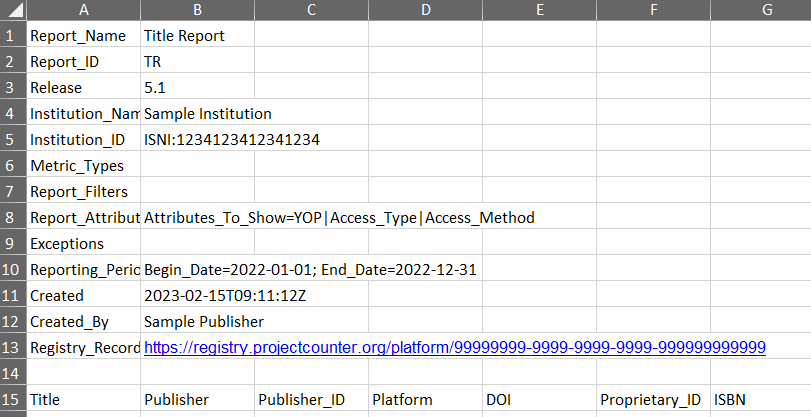
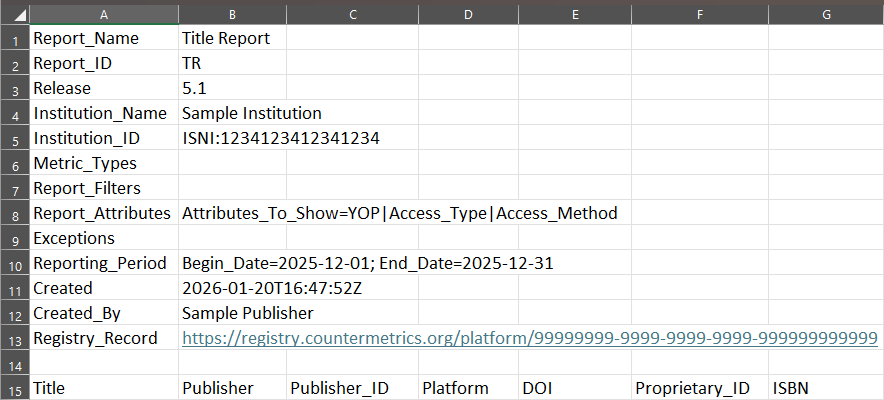
Update COUNTER URL domain (#321)

diff --git a/source/appendices/g-sample-counter-reports-and-standard-views.rst b/source/appendices/g-sample-counter-reports-and-standard-views.rst
@@ -136,96 +136,96 @@ Table G.1: Sample COUNTER Reports and Standard Views of the COUNTER Reports
 
       * - PR
         - Platform Report
-        - `JSON <https://cop5.projectcounter.org/en/5.1.0.1/_static/report/PR_sample_r51.json>`_
-          `TSV <https://cop5.projectcounter.org/en/5.1.0.1/_static/report/PR_sample_r51.tsv>`_
-          `Excel <https://cop5.projectcounter.org/en/5.1.0.1/_static/report/PR_sample_r51.xlsx>`_
+        - `JSON <https://cop5.countermetrics.org/en/5.1.0.1/_static/report/PR_sample_r51.json>`_
+          `TSV <https://cop5.countermetrics.org/en/5.1.0.1/_static/report/PR_sample_r51.tsv>`_
+          `Excel <https://cop5.countermetrics.org/en/5.1.0.1/_static/report/PR_sample_r51.xlsx>`_
 
       * - PR_P1
         - Platform Usage
-        - `JSON <https://cop5.projectcounter.org/en/5.1.0.1/_static/report/PRP1_sample_r51.json>`_
-          `TSV <https://cop5.projectcounter.org/en/5.1.0.1/_static/report/PRP1_sample_r51.tsv>`_
-          `Excel <https://cop5.projectcounter.org/en/5.1.0.1/_static/report/PRP1_sample_r51.xlsx>`_
+        - `JSON <https://cop5.countermetrics.org/en/5.1.0.1/_static/report/PRP1_sample_r51.json>`_
+          `TSV <https://cop5.countermetrics.org/en/5.1.0.1/_static/report/PRP1_sample_r51.tsv>`_
+          `Excel <https://cop5.countermetrics.org/en/5.1.0.1/_static/report/PRP1_sample_r51.xlsx>`_
 
       * - DR
         - Database Report
-        - `JSON <https://cop5.projectcounter.org/en/5.1.0.1/_static/report/DR_sample_r51.json>`_
-          `TSV <https://cop5.projectcounter.org/en/5.1.0.1/_static/report/DR_sample_r51.tsv>`_
-          `Excel <https://cop5.projectcounter.org/en/5.1.0.1/_static/report/DR_sample_r51.xlsx>`_
+        - `JSON <https://cop5.countermetrics.org/en/5.1.0.1/_static/report/DR_sample_r51.json>`_
+          `TSV <https://cop5.countermetrics.org/en/5.1.0.1/_static/report/DR_sample_r51.tsv>`_
+          `Excel <https://cop5.countermetrics.org/en/5.1.0.1/_static/report/DR_sample_r51.xlsx>`_
 
       * - DR_D1
         - Database Search and Item Usage
-        - `JSON <https://cop5.projectcounter.org/en/5.1.0.1/_static/report/DRD1_sample_r51.json>`_
-          `TSV <https://cop5.projectcounter.org/en/5.1.0.1/_static/report/DRD1_sample_r51.tsv>`_
-          `Excel <https://cop5.projectcounter.org/en/5.1.0.1/_static/report/DRD1_sample_r51.xlsx>`_
+        - `JSON <https://cop5.countermetrics.org/en/5.1.0.1/_static/report/DRD1_sample_r51.json>`_
+          `TSV <https://cop5.countermetrics.org/en/5.1.0.1/_static/report/DRD1_sample_r51.tsv>`_
+          `Excel <https://cop5.countermetrics.org/en/5.1.0.1/_static/report/DRD1_sample_r51.xlsx>`_
 
       * - DR_D2
         - Database Access Denied
-        - `JSON <https://cop5.projectcounter.org/en/5.1.0.1/_static/report/DRD2_sample_r51.json>`_
-          `TSV <https://cop5.projectcounter.org/en/5.1.0.1/_static/report/DRD2_sample_r51.tsv>`_
-          `Excel <https://cop5.projectcounter.org/en/5.1.0.1/_static/report/DRD2_sample_r51.xlsx>`_
+        - `JSON <https://cop5.countermetrics.org/en/5.1.0.1/_static/report/DRD2_sample_r51.json>`_
+          `TSV <https://cop5.countermetrics.org/en/5.1.0.1/_static/report/DRD2_sample_r51.tsv>`_
+          `Excel <https://cop5.countermetrics.org/en/5.1.0.1/_static/report/DRD2_sample_r51.xlsx>`_
 
       * - TR
         - Title Report
-        - `JSON <https://cop5.projectcounter.org/en/5.1.0.1/_static/report/TR_sample_r51.json>`_
-          `TSV <https://cop5.projectcounter.org/en/5.1.0.1/_static/report/TR_sample_r51.tsv>`_
-          `Excel <https://cop5.projectcounter.org/en/5.1.0.1/_static/report/TR_sample_r51.xlsx>`_
+        - `JSON <https://cop5.countermetrics.org/en/5.1.0.1/_static/report/TR_sample_r51.json>`_
+          `TSV <https://cop5.countermetrics.org/en/5.1.0.1/_static/report/TR_sample_r51.tsv>`_
+          `Excel <https://cop5.countermetrics.org/en/5.1.0.1/_static/report/TR_sample_r51.xlsx>`_
 
       * - TR_B1
         - Book Requests (Controlled)
-        - `JSON <https://cop5.projectcounter.org/en/5.1.0.1/_static/report/TRB1_sample_r51.json>`_
-          `TSV <https://cop5.projectcounter.org/en/5.1.0.1/_static/report/TRB1_sample_r51.tsv>`_
-          `Excel <https://cop5.projectcounter.org/en/5.1.0.1/_static/report/TRB1_sample_r51.xlsx>`_
+        - `JSON <https://cop5.countermetrics.org/en/5.1.0.1/_static/report/TRB1_sample_r51.json>`_
+          `TSV <https://cop5.countermetrics.org/en/5.1.0.1/_static/report/TRB1_sample_r51.tsv>`_
+          `Excel <https://cop5.countermetrics.org/en/5.1.0.1/_static/report/TRB1_sample_r51.xlsx>`_
 
       * - TR_B2
         - Book Access Denied
-        - `JSON <https://cop5.projectcounter.org/en/5.1.0.1/_static/report/TRB2_sample_r51.json>`_
-          `TSV <https://cop5.projectcounter.org/en/5.1.0.1/_static/report/TRB2_sample_r51.tsv>`_
-          `Excel <https://cop5.projectcounter.org/en/5.1.0.1/_static/report/TRB2_sample_r51.xlsx>`_
+        - `JSON <https://cop5.countermetrics.org/en/5.1.0.1/_static/report/TRB2_sample_r51.json>`_
+          `TSV <https://cop5.countermetrics.org/en/5.1.0.1/_static/report/TRB2_sample_r51.tsv>`_
+          `Excel <https://cop5.countermetrics.org/en/5.1.0.1/_static/report/TRB2_sample_r51.xlsx>`_
 
       * - TR_B3
         - Book Usage by Access Type
-        - `JSON <https://cop5.projectcounter.org/en/5.1.0.1/_static/report/TRB3_sample_r51.json>`_
-          `TSV <https://cop5.projectcounter.org/en/5.1.0.1/_static/report/TRB3_sample_r51.tsv>`_
-          `Excel <https://cop5.projectcounter.org/en/5.1.0.1/_static/report/TRB3_sample_r51.xlsx>`_
+        - `JSON <https://cop5.countermetrics.org/en/5.1.0.1/_static/report/TRB3_sample_r51.json>`_
+          `TSV <https://cop5.countermetrics.org/en/5.1.0.1/_static/report/TRB3_sample_r51.tsv>`_
+          `Excel <https://cop5.countermetrics.org/en/5.1.0.1/_static/report/TRB3_sample_r51.xlsx>`_
 
       * - TR_J1
         - Journal Requests (Controlled)
-        - `JSON <https://cop5.projectcounter.org/en/5.1.0.1/_static/report/TRJ1_sample_r51.json>`_
-          `TSV <https://cop5.projectcounter.org/en/5.1.0.1/_static/report/TRJ1_sample_r51.tsv>`_
-          `Excel <https://cop5.projectcounter.org/en/5.1.0.1/_static/report/TRJ1_sample_r51.xlsx>`_
+        - `JSON <https://cop5.countermetrics.org/en/5.1.0.1/_static/report/TRJ1_sample_r51.json>`_
+          `TSV <https://cop5.countermetrics.org/en/5.1.0.1/_static/report/TRJ1_sample_r51.tsv>`_
+          `Excel <https://cop5.countermetrics.org/en/5.1.0.1/_static/report/TRJ1_sample_r51.xlsx>`_
 
       * - TR_J2
         - Journal Access Denied
-        - `JSON <https://cop5.projectcounter.org/en/5.1.0.1/_static/report/TRJ2_sample_r51.json>`_
-          `TSV <https://cop5.projectcounter.org/en/5.1.0.1/_static/report/TRJ2_sample_r51.tsv>`_
-          `Excel <https://cop5.projectcounter.org/en/5.1.0.1/_static/report/TRJ2_sample_r51.xlsx>`_
+        - `JSON <https://cop5.countermetrics.org/en/5.1.0.1/_static/report/TRJ2_sample_r51.json>`_
+          `TSV <https://cop5.countermetrics.org/en/5.1.0.1/_static/report/TRJ2_sample_r51.tsv>`_
+          `Excel <https://cop5.countermetrics.org/en/5.1.0.1/_static/report/TRJ2_sample_r51.xlsx>`_
 
       * - TR_J3
         - Journal Usage by Access Type
-        - `JSON <https://cop5.projectcounter.org/en/5.1.0.1/_static/report/TRJ3_sample_r51.json>`_
-          `TSV <https://cop5.projectcounter.org/en/5.1.0.1/_static/report/TRJ3_sample_r51.tsv>`_
-          `Excel <https://cop5.projectcounter.org/en/5.1.0.1/_static/report/TRJ3_sample_r51.xlsx>`_
+        - `JSON <https://cop5.countermetrics.org/en/5.1.0.1/_static/report/TRJ3_sample_r51.json>`_
+          `TSV <https://cop5.countermetrics.org/en/5.1.0.1/_static/report/TRJ3_sample_r51.tsv>`_
+          `Excel <https://cop5.countermetrics.org/en/5.1.0.1/_static/report/TRJ3_sample_r51.xlsx>`_
 
       * - TR_J4
         - Journal Request by YOP (Controlled)
-        - `JSON <https://cop5.projectcounter.org/en/5.1.0.1/_static/report/TRJ4_sample_r51.json>`_
-          `TSV <https://cop5.projectcounter.org/en/5.1.0.1/_static/report/TRJ4_sample_r51.tsv>`_
-          `Excel <https://cop5.projectcounter.org/en/5.1.0.1/_static/report/TRJ4_sample_r51.xlsx>`_
+        - `JSON <https://cop5.countermetrics.org/en/5.1.0.1/_static/report/TRJ4_sample_r51.json>`_
+          `TSV <https://cop5.countermetrics.org/en/5.1.0.1/_static/report/TRJ4_sample_r51.tsv>`_
+          `Excel <https://cop5.countermetrics.org/en/5.1.0.1/_static/report/TRJ4_sample_r51.xlsx>`_
 
       * - IR
         - Item Report
-        - `JSON <https://cop5.projectcounter.org/en/5.1.0.1/_static/report/IR_sample_r5.json>`_
-          `TSV <https://cop5.projectcounter.org/en/5.1.0.1/_static/report/IR_sample_r51.tsv>`_
-          `Excel <https://cop5.projectcounter.org/en/5.1.0.1/_static/report/IR_sample_r51.xlsx>`_
+        - `JSON <https://cop5.countermetrics.org/en/5.1.0.1/_static/report/IR_sample_r5.json>`_
+          `TSV <https://cop5.countermetrics.org/en/5.1.0.1/_static/report/IR_sample_r51.tsv>`_
+          `Excel <https://cop5.countermetrics.org/en/5.1.0.1/_static/report/IR_sample_r51.xlsx>`_
 
       * - IR_A1
         - Journal Article Requests
-        - `JSON <https://cop5.projectcounter.org/en/5.1.0.1/_static/report/IRA1_sample_r51.json>`_
-          `TSV <https://cop5.projectcounter.org/en/5.1.0.1/_static/report/IRA1_sample_r51.tsv>`_
-          `Excel <https://cop5.projectcounter.org/en/5.1.0.1/_static/report/IRA1_sample_r51.xlsx>`_
+        - `JSON <https://cop5.countermetrics.org/en/5.1.0.1/_static/report/IRA1_sample_r51.json>`_
+          `TSV <https://cop5.countermetrics.org/en/5.1.0.1/_static/report/IRA1_sample_r51.tsv>`_
+          `Excel <https://cop5.countermetrics.org/en/5.1.0.1/_static/report/IRA1_sample_r51.xlsx>`_
 
       * - IR_M1
         - Multimedia Item Requests
-        - `JSON <https://cop5.projectcounter.org/en/5.1.0.1/_static/report/IRM1_sample_r51.json>`_
-          `TSV <https://cop5.projectcounter.org/en/5.1.0.1/_static/report/IRM1_sample_r51.tsv>`_
-          `Excel <https://cop5.projectcounter.org/en/5.1.0.1/_static/report/IRM1_sample_r51.xlsx>`_
+        - `JSON <https://cop5.countermetrics.org/en/5.1.0.1/_static/report/IRM1_sample_r51.json>`_
+          `TSV <https://cop5.countermetrics.org/en/5.1.0.1/_static/report/IRM1_sample_r51.tsv>`_
+          `Excel <https://cop5.countermetrics.org/en/5.1.0.1/_static/report/IRM1_sample_r51.xlsx>`_
